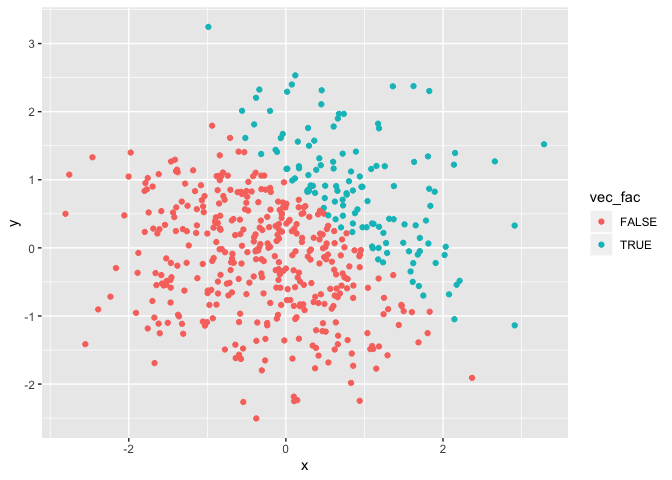
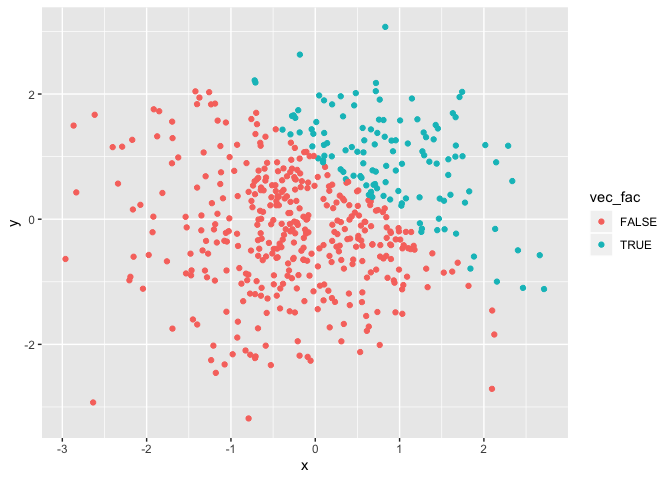
Made some changes

diff --git a/p8105_hw1_Ec3342.md b/p8105_hw1_Ec3342.md
@@ -40,13 +40,13 @@ first_df = tibble(
 mean(pull(first_df,norm_samp)) 
 ```
 
-    ## [1] -0.3715217
+    ## [1] -0.6659844
 
 ``` r
 mean(pull(first_df,vec_log))
 ```
 
-    ## [1] 0.5
+    ## [1] 0.375
 
 ``` r
 mean(pull(first_df,vec_char))
@@ -73,9 +73,9 @@ taking the mean of the character vector (vec\_char) and the factor
 vector (vec\_factor), I got an error saying the argument is not numeric
 or logical:returning N/A.
 
-\#Now writing a **code chunk** to apply the **as.numeric** function to
-the logical, character, and factor variables. Hiding the output by
-giving **eval = FALSE** in the code chunk. After applying the as.numeric
+\#Now writing a code chunk to apply the **as.numeric** function to the
+logical, character, and factor variables. Hiding the output by giving
+**eval = FALSE** in the code chunk. After applying the as.numeric
 function, the logical vector, character vector and the factor vector
 gets converted to numeric because as.numeric will return the numeric
 codes that correspond to the logical vector, character vector and factor
@@ -112,8 +112,8 @@ vector into numeric and then multiplied that with the random
 as.numeric(pull(first_df,vec_log))*(pull(first_df,norm_samp))
 ```
 
-    ## [1] 0.06848728 0.00000000 1.21487900 0.00000000 0.45162797 0.00000000
-    ## [7] 0.06386725 0.00000000
+    ## [1] 0.0000000 1.1323952 0.6018982 0.0000000 0.0000000 0.0000000 0.0000000
+    ## [8] 0.1037951
 
 ``` r
 as.factor(pull(first_df,vec_log))*(pull(first_df,norm_samp))
@@ -128,8 +128,8 @@ as.factor(pull(first_df,vec_log))*(pull(first_df,norm_samp))
 as.numeric(as.factor(pull(first_df,vec_log)))*(pull(first_df,norm_samp))
 ```
 
-    ## [1]  0.1369746 -0.2118915  2.4297580 -2.4465972  0.9032559 -1.6292479
-    ## [7]  0.1277345 -0.4832988
+    ## [1] -1.1570554  2.2647904  1.2037963 -0.8764147 -0.9126485 -1.4690353
+    ## [7] -2.7508098  0.2075903
 
 # Question 2
 
@@ -150,16 +150,16 @@ second_df = tibble(
   y = rnorm(500),
   vec_log2 = x + y > 1,
 vec_num = as.numeric(vec_log2),
-vec_fac = as.factor(vec_log2),
+vec_fac = as.factor(vec_log2)
 )
 ```
 
 ## Description of the dataframe
 
   - The size of the dataframe is 500 and the number of columns are 5
-  - The mean of x is 0.0396702
-  - The median of x is 0.0272387
-  - The standard deviation of x is 1.0402588
+  - The mean of x is -0.0092352
+  - The median of x is -0.083356
+  - The standard deviation of x is 0.9957998
   - The proportion of cases for which x + y \> 1 is 0.242
 
 ## Scatterplot
@@ -191,7 +191,3 @@ plot_3
 ```
 
 ![](p8105_hw1_Ec3342_files/figure-gfm/scatterplot-3.png)<!-- -->
-
-``` r
-ggsave("plot_1.pdf", height = 4, width = 6)
-```
